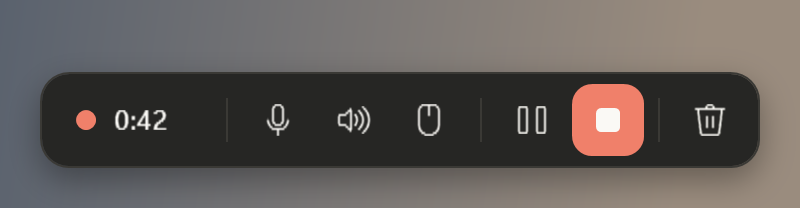
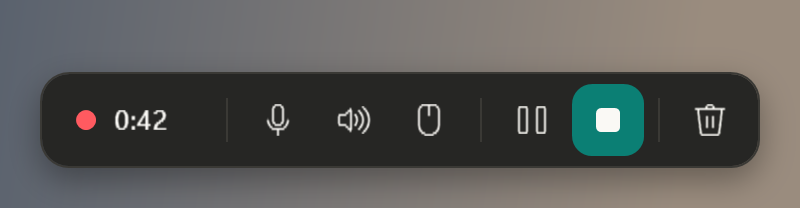
Recording bar: turquoise stop button, a clear red instead of salmon
The stop button uses the brand fill (#0B7F74, #096A61 while hovered) under
its light square. The recording red (#F0806A, hue 10 degrees, read as orange)
becomes a theme resource: #FF5A60 on the dark theme, #D42A37 on the light
theme (which had only 2.5:1 before), both at least 4.5:1 against the
background; the discard confirmation fill is #D42A37 (4.8:1 with its icon).
The failure chip keeps its alphas in the new red, and the settings window's
error text uses #FF5A60 (5.0:1) instead of #F09080. Pixel references and the
README recording bar are re-rendered.

Changed region(s): [[0.6875, 0.4038, 0.8125, 0.75], [0.0938, 0.5192, 0.125, 0.6346]]

diff --git a/engine/Recording/RecordingToolbar.cs b/engine/Recording/RecordingToolbar.cs
@@ -31,7 +31,7 @@ internal sealed class RecordingToolbar : Window
         ToolWindows.Setup(this, UiText.Titles.Toolbar);
         SizeToContent = SizeToContent.WidthAndHeight;
 
-        dot = new Shapes.Ellipse { Width = 10, Height = 10, Fill = Palette.RecordingRed, Margin = new Thickness(0, 0, 9, 0), VerticalAlignment = VerticalAlignment.Center };
+        dot = new Shapes.Ellipse { Width = 10, Height = 10, Margin = new Thickness(0, 0, 9, 0), VerticalAlignment = VerticalAlignment.Center };
         TimeText = ToolWindows.Text(14, Palette.Text);
         grip = BuildGrip();
 
@@ -47,7 +47,6 @@ internal sealed class RecordingToolbar : Window
         pauseGlyph = ToolWindows.Glyph("", 16);
         pauseButton = AddButton(pauseGlyph, () => ScreenRecorder.Paused ? UiText.Toolbar.Resume : UiText.Toolbar.Pause, ScreenRecorder.TogglePause);
         stopButton = AddButton(BuildStopSquare(), () => UiText.Toolbar.Stop, ScreenRecorder.Stop);
-        stopButton.Background = Palette.RecordingRed;
         discardGlyph = ToolWindows.Glyph(IconGlyphs.Delete, 16);
         DiscardButton = AddButton(discardGlyph, () => ConfirmingDiscard ? UiText.Toolbar.ConfirmDiscard : UiText.Toolbar.Discard, Discard);
 
@@ -65,7 +64,7 @@ internal sealed class RecordingToolbar : Window
         confirmTimer.Tick += delegate { confirmTimer.Stop(); ConfirmingDiscard = false; Refresh(); };
     }
 
-    /// <summary>The white square on the red stop button.</summary>
+    /// <summary>The light square on the turquoise stop button (4.6:1, 6.1:1 while hovered).</summary>
     static Shapes.Rectangle BuildStopSquare() => new()
     {
         Width = 12,
@@ -243,10 +242,10 @@ internal sealed class RecordingToolbar : Window
         PaintGlyph(pauseGlyph, Palette.Text);
         foreach (var button in new[] { microphoneButton, SoundButton, clickButton, pauseButton })
             PaintHover(button);
-        stopButton.Opacity = hovered == stopButton ? 0.86 : 1;
+        stopButton.SetResourceReference(Border.BackgroundProperty, hovered == stopButton ? Palette.AccentFillHover : Palette.AccentFill);
         if (ConfirmingDiscard)
         {
-            DiscardButton.Background = Palette.RecordingRed;
+            DiscardButton.SetResourceReference(Border.BackgroundProperty, Palette.RecordingRedFill);
             discardGlyph.Foreground = Palette.Light;
         }
         else
@@ -275,7 +274,7 @@ internal sealed class RecordingToolbar : Window
             TimeText.SetResourceReference(TextBlock.ForegroundProperty, Palette.Muted);
             return;
         }
-        dot.Fill = Palette.RecordingRed;
+        dot.SetResourceReference(Shapes.Shape.FillProperty, Palette.RecordingRed);
         TimeText.SetResourceReference(TextBlock.ForegroundProperty, Palette.Text);
         if (IsVisible && !dot.HasAnimatedProperties)
             dot.BeginAnimation(OpacityProperty, new DoubleAnimation(1, 0.3, Motion.RecordingPulse)
@@ -289,8 +288,7 @@ internal sealed class RecordingToolbar : Window
     // null = "off" in recording red
     static void PaintGlyph(TextBlock glyph, string? brushKey)
     {
-        if (brushKey == null) glyph.Foreground = Palette.RecordingRed;
-        else glyph.SetResourceReference(TextBlock.ForegroundProperty, brushKey);
+        glyph.SetResourceReference(TextBlock.ForegroundProperty, brushKey ?? Palette.RecordingRed);
     }
 
     void UpdateTimeAndLevel()

diff --git a/engine/Core/Palette.cs b/engine/Core/Palette.cs
@@ -27,6 +27,13 @@ static class Palette
     public const string AccentFill = "AccentFill";
     /// <summary><see cref="AccentFill"/> while hovered or pressed: darker, so the text stays readable.</summary>
     public const string AccentFillHover = "AccentFillHover";
+    /// <summary>
+    /// Recording red for the toolbar dot, "off" icons and error text: a clear red (hue 355-358°),
+    /// at least 4.5:1 against the background in both themes.
+    /// </summary>
+    public const string RecordingRed = "RecordingRed";
+    /// <summary>Red surface under light icons (the discard button while it waits for confirmation).</summary>
+    public const string RecordingRedFill = "RecordingRedFill";
     /// <summary><see cref="RecordingRed"/> as a subtle fill (background of the failure cards' status chip).</summary>
     public const string WarningSoft = "WarningSoft";
 
@@ -39,8 +46,6 @@ static class Palette
 
     // ---------- Fixed brushes (same in light and dark) ----------
 
-    /// <summary>Recording red: the toolbar dot, the stop button and "off" icons.</summary>
-    public static readonly SolidColorBrush RecordingRed = Frozen(0xFF, 0xF0, 0x80, 0x6A);
     /// <summary>Light foreground on dark or accent surfaces.</summary>
     public static readonly SolidColorBrush Light = Frozen(0xFF, 0xFA, 0xF9, 0xF5);
     /// <summary>Dimming outside the selected area.</summary>
@@ -52,9 +57,9 @@ static class Palette
 
     internal static bool? Force;   // tests only: light/dark regardless of the Windows setting
 
-    static readonly string[] Keys = { Background, Selected, Hover, Line, Text, Muted, Accent, Chip, AccentFill, AccentFillHover };
-    static readonly string[] LightColors = { "#FAF9F5", "#EEECE3", "#F4F2EA", "#E3E1D7", "#141413", "#7A786F", "#0E8C80", "#E6E3D8", "#0B7F74", "#096A61" };
-    static readonly string[] DarkColors = { "#262624", "#35342F", "#2E2D2A", "#3A3935", "#FAF9F5", "#A3A197", "#2AC8A6", "#42413C", "#0B7F74", "#096A61" };
+    static readonly string[] Keys = { Background, Selected, Hover, Line, Text, Muted, Accent, Chip, AccentFill, AccentFillHover, RecordingRed, RecordingRedFill };
+    static readonly string[] LightColors = { "#FAF9F5", "#EEECE3", "#F4F2EA", "#E3E1D7", "#141413", "#7A786F", "#0E8C80", "#E6E3D8", "#0B7F74", "#096A61", "#D42A37", "#D42A37" };
+    static readonly string[] DarkColors = { "#262624", "#35342F", "#2E2D2A", "#3A3935", "#FAF9F5", "#A3A197", "#2AC8A6", "#42413C", "#0B7F74", "#096A61", "#FF5A60", "#D42A37" };
 
     public static SolidColorBrush Frozen(byte alpha, byte red, byte green, byte blue)
     {
@@ -78,7 +83,7 @@ static class Palette
         // accent as a subtle fill (background of the muted microphone icon)
         var accent = ((SolidColorBrush)resources[Accent]).Color;
         resources[AccentSoft] = Frozen(light ? (byte)0x26 : (byte)0x2E, accent.R, accent.G, accent.B);
-        var red = RecordingRed.Color;
+        var red = ((SolidColorBrush)resources[RecordingRed]).Color;
         resources[WarningSoft] = Frozen(light ? (byte)0x26 : (byte)0x2E, red.R, red.G, red.B);
     }
 

diff --git a/tests/MosaikCapture.Engine.Tests/Core/PaletteTests.cs b/tests/MosaikCapture.Engine.Tests/Core/PaletteTests.cs
@@ -2,7 +2,7 @@ namespace MosaikCapture.Engine.Tests.Core;
 
 public sealed class PaletteTests
 {
-    static readonly string[] Keys = { "Bg", "Sel", "Hover", "Line", "Text", "Muted", "Accent", "Chip", "AccentSoft", "AccentFill", "AccentFillHover", "WarningSoft" };
+    static readonly string[] Keys = { "Bg", "Sel", "Hover", "Line", "Text", "Muted", "Accent", "Chip", "AccentSoft", "AccentFill", "AccentFillHover", "RecordingRed", "RecordingRedFill", "WarningSoft" };
 
     [Theory]
     [InlineData(true)]
@@ -71,6 +71,40 @@ public sealed class PaletteTests
         Assert.True(Contrast(Color(resources, "Accent"), Color(resources, "Bg")) >= 3);
         Assert.True(Contrast(Color(resources, "Accent"), Color(resources, "Sel")) >= 3);
     });
+
+    // The recording red is a clear red, not orange: hue 350-360°. As text (export error) it needs
+    // 4.5:1 against the background, as an icon 3:1 on hovered buttons and on its own warning chip;
+    // the discard fill carries a light icon (3:1) and stands out from the bar (3:1).
+    [Theory]
+    [InlineData(true)]
+    [InlineData(false)]
+    public void RecordingRedIsARedThatReads(bool light) => WpfThread.Run(() =>
+    {
+        var resources = new ResourceDictionary();
+        Palette.Apply(resources, light);
+        Color red = Color(resources, "RecordingRed"), fill = Color(resources, "RecordingRedFill");
+
+        foreach (Color c in new[] { red, fill })
+        {
+            // red is the largest channel and blue a little above green: the hue leans away from orange
+            Assert.True(c.R > c.B && c.B >= c.G, c + " leans towards orange");
+            double hue = 360 - 60.0 * (c.B - c.G) / (c.R - c.G);
+            Assert.InRange(hue, 350, 360);
+            Assert.True((c.R - c.G) / (double)c.R > 0.6, c + " is not saturated enough to read as red");
+        }
+        Assert.True(Contrast(red, Color(resources, "Bg")) >= 4.5);
+        Assert.True(Contrast(red, Color(resources, "Hover")) >= 3);
+        Assert.True(Contrast(red, Composite(Color(resources, "WarningSoft"), Color(resources, "Bg"))) >= 3);
+        Assert.True(Contrast(Palette.Light.Color, fill) >= 4.5);
+        Assert.True(Contrast(fill, Color(resources, "Bg")) >= 3);
+        Assert.Equal(red.B, Color(resources, "WarningSoft").B);
+    });
+
+    static Color Composite(Color top, Color bottom)
+    {
+        byte Mix(byte a, byte b) => (byte)Math.Round((a * top.A + b * (255 - top.A)) / 255.0);
+        return System.Windows.Media.Color.FromRgb(Mix(top.R, bottom.R), Mix(top.G, bottom.G), Mix(top.B, bottom.B));
+    }
 
     static double Contrast(Color a, Color b)
     {

diff --git a/src/ui/theme.rs b/src/ui/theme.rs
@@ -35,8 +35,8 @@ pub const ACCENT_PRESSED: COLORREF = rgb(0x09, 0x6A, 0x61);
 pub const ON_ACCENT: COLORREF = INK;
 /// Outline of secondary buttons.
 pub const BORDER: COLORREF = rgb(0x47, 0x47, 0x45);
-/// Status text for errors.
-pub const ERROR: COLORREF = rgb(0xF0, 0x90, 0x80);
+/// Status text for errors: the engine's dark-theme recording red, 5.0:1 against [`BACKGROUND`].
+pub const ERROR: COLORREF = rgb(0xFF, 0x5A, 0x60);
 
 const FONT_FACE: &str = "Segoe UI";
 
@@ -295,7 +295,7 @@ mod tests {
         assert_eq!(ACCENT_PRESSED, 0x0061_6A09);
         assert_eq!(ON_ACCENT, INK);
         assert_eq!(BORDER, 0x0045_4747);
-        assert_eq!(ERROR, 0x0080_90F0);
+        assert_eq!(ERROR, 0x0060_5AFF);
     }
 
     /// WCAG 2 contrast ratio of two colours.
@@ -316,6 +316,11 @@ mod tests {
         assert!(contrast(ON_ACCENT, ACCENT) >= 4.5);
         assert!(contrast(ON_ACCENT, ACCENT_PRESSED) >= 4.5);
         assert!(contrast(ACCENT, BACKGROUND) >= 3.0, "button stands out from the window");
+    }
+
+    #[test]
+    fn error_text_is_readable() {
+        assert!(contrast(ERROR, BACKGROUND) >= 4.5);
     }
 
     #[test]

diff --git a/engine/Recording/TrimWindow.Timeline.cs b/engine/Recording/TrimWindow.Timeline.cs
@@ -67,7 +67,7 @@ internal sealed partial class TrimWindow
         bigPlayButton.Visibility = playing ? Visibility.Hidden : Visibility.Visible;
         soundGlyph.Text = withSound ? IconGlyphs.Volume : IconGlyphs.Mute;
         if (withSound) soundGlyph.SetResourceReference(TextBlock.ForegroundProperty, Palette.Text);
-        else soundGlyph.Foreground = Palette.RecordingRed;
+        else soundGlyph.SetResourceReference(TextBlock.ForegroundProperty, Palette.RecordingRed);
     }
 
     void TrackDown(double x)

diff --git a/engine/Recording/TrimWindow.Export.cs b/engine/Recording/TrimWindow.Export.cs
@@ -52,7 +52,7 @@ internal sealed partial class TrimWindow
     void ShowExportError(string error)
     {
         progressText.Text = UiText.Trim.NotSaved(error);
-        progressText.Foreground = Palette.RecordingRed;
+        progressText.SetResourceReference(TextBlock.ForegroundProperty, Palette.RecordingRed);
         ShowProgressRow(true);
         var timer = new DispatcherTimer { Interval = Motion.ErrorShown };
         timer.Tick += delegate { timer.Stop(); ShowProgressRow(false); };

diff --git a/engine/Core/CardChrome.cs b/engine/Core/CardChrome.cs
@@ -77,7 +77,7 @@ internal static class CardChrome
         glyph.Text = symbol;
         if (warning)
         {
-            glyph.Foreground = Palette.RecordingRed;
+            glyph.SetResourceReference(TextBlock.ForegroundProperty, Palette.RecordingRed);
             chip.SetResourceReference(Border.BackgroundProperty, Palette.WarningSoft);
         }
         else

diff --git a/CHANGELOG.md b/CHANGELOG.md
@@ -6,6 +6,16 @@ All notable changes to this project are documented here. The format follows
 
 ## [Unreleased]
 
+### Changed
+- The stop button in the recording bar is turquoise (#0B7F74, darker #096A61 while hovered)
+  instead of salmon; its light square keeps 4.6:1 (6.1:1 hovered).
+- The recording red is a clear red instead of an orange-looking salmon (#F0806A): #FF5A60 in
+  the dark theme and #D42A37 in the light theme for the recording dot, "off" icons, the trim
+  window's export error and the failure cards' status chip (at least 4.5:1 against the
+  background in both themes; before, the light theme had only 2.5:1). The discard button
+  waiting for confirmation is filled with #D42A37 (4.8:1 with its light icon). The settings
+  window's error text uses #FF5A60 (5.0:1) instead of #F09080.
+
 ## [1.1.1] - 2026-11-13
 
 ### Changed
